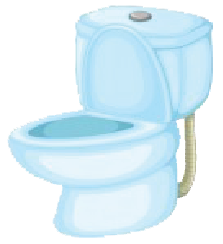
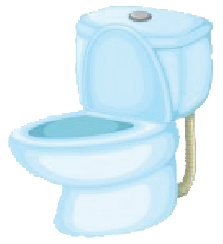
added images to see mockup of frame, changed font and font size

diff --git a/styles.css b/styles.css
@@ -1,30 +1,38 @@
+body {
+  font-family: helvetica;
+  font-size: 1.5em; }
+
 .container {
   display: inline-block;
   width: 1000px;
   padding: 0px;
   margin-left: 10%;
   margin-right: 10%;
-  border: 1px orange solid; }
+  border: 1px orange solid;
+  background-image: url("images/walls.jpg"); }
 
 #shelf {
   display: inline-block;
-  width: 100%;
+  width: 1000px;
+  position: absolute;
+  margin-top: 30px;
+  background-image: url("images/shelf.png");
+  background-repeat: no-repeat;
   height: 50px;
   border: 1px red solid; }
 
 .plantBox {
-  width: 60px;
-  height: 50px;
-  background-image: url("http://placehold.it/60x50");
   display: inline-block;
-  background-color: green;
-  margin-left: 50%; }
+  margin-left: 50%;
+  margin-top: -28px; }
 
 #door {
   display: inline-block;
   width: 250px;
   margin-top: 100px;
   margin-left: 30px;
+  background-image: url("images/door.png");
+  background-repeat: no-repeat;
   height: 400px;
   border: 1px red solid; }
 
@@ -32,13 +40,17 @@
   display: inline-block;
   width: 127px;
   height: 120px;
+  background-image: url("images/trash.png");
+  background-repeat: no-repeat;
   border: 1px red solid;
   vertical-align: bottom; }
 
 #toilet {
   display: inline-block;
-  width: 188px;
-  height: 177px;
+  width: 217px;
+  height: 238px;
+  background-image: url("images/toilet.png");
+  background-repeat: no-repeat;
   margin-left: 35%;
   border: 1px red solid;
   vertical-align: bottom; }
@@ -58,4 +70,6 @@
   display: inline-block;
   width: 100%;
   height: 100px;
+  background-color: gray;
+  opacity: 0.3;
   border: 1px blue solid; }

diff --git a/styles.scss b/styles.scss
@@ -1,3 +1,8 @@
+body {
+  font-family:helvetica;
+  font-size:1.5em;
+}
+
 .container {
   display:inline-block;
   width:1000px;
@@ -5,22 +10,24 @@
   margin-left:10%;
   margin-right:10%;
   border:1px orange solid;
+  background-image:url("images/walls.jpg")
 }
 
 #shelf {
   display:inline-block;
-  width:100%;
+  width:1000px;
+  position:absolute;
+  margin-top:30px;
+  background-image:url("images/shelf.png");
+  background-repeat:no-repeat;
   height:50px;
   border:1px red solid;
 }
 
 .plantBox {
-  width:60px;
-  height:50px;
-  background-image:url("http://placehold.it/60x50");
   display:inline-block;
-  background-color:green;
   margin-left:50%;
+  margin-top:-28px;
 }
 
 
@@ -30,6 +37,8 @@
   width:250px;
   margin-top:100px;
   margin-left:30px;
+  background-image:url("images/door.png");
+  background-repeat:no-repeat;
   height:400px;
   border:1px red solid;
 }
@@ -38,14 +47,18 @@
   display:inline-block;
   width: 127px;
   height: 120px;
+  background-image:url("images/trash.png");
+  background-repeat:no-repeat;
   border:1px red solid;
   vertical-align:bottom;
 }
 
 #toilet {
   display: inline-block;
-  width: 188px;
-  height: 177px;
+  width: 217px;
+  height: 238px;
+  background-image:url("images/toilet.png");
+  background-repeat:no-repeat;
   margin-left:35%;
   border:1px red solid;
   vertical-align:bottom;
@@ -69,5 +82,7 @@
   display:inline-block;
   width:100%;
   height:100px;
+  background-color:gray;
+  opacity:.3;
   border:1px blue solid;
 }

diff --git a/index.html b/index.html
@@ -8,9 +8,11 @@
   <body>
     <div class="container">
       <div id="shelf">
-        <div class="plantBox"></div>
+        <div class="plantBox">
+          <img src="images/plant.png" width=70px height=60px>
+        </div>
       </div>
-      
+
       <div id="door">
 
       </div>
